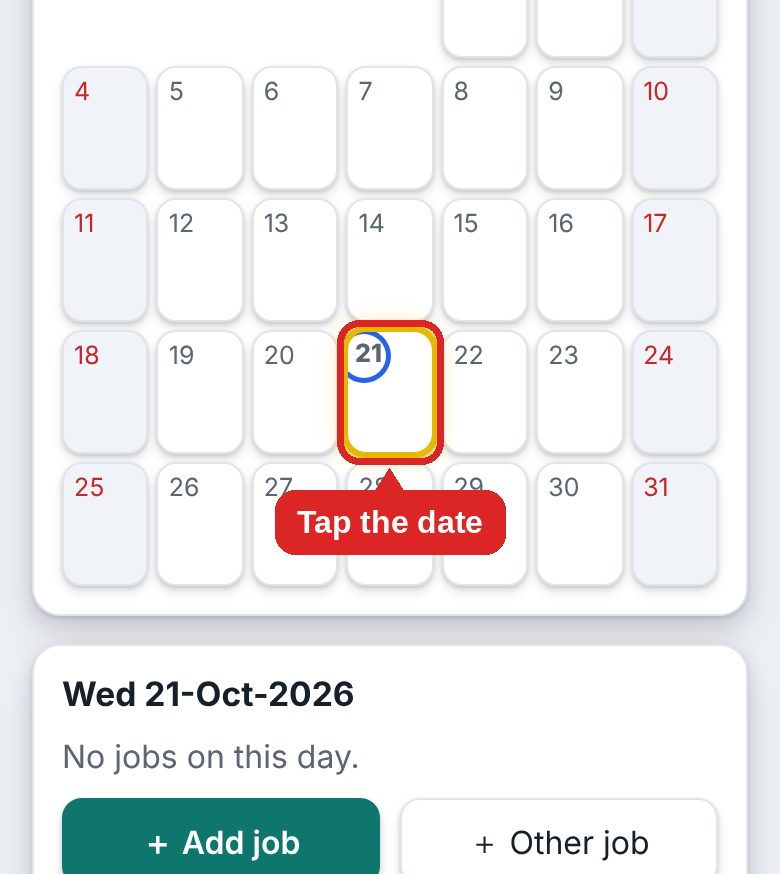
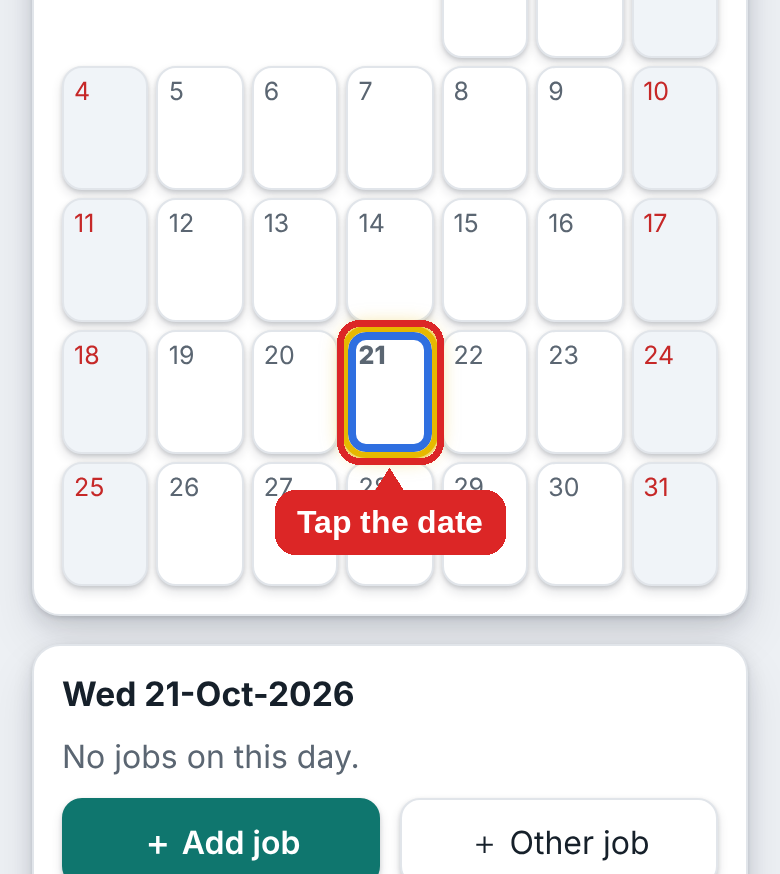
Pop-ups that need nothing from the page dim it again (the day sheet when only viewing a day does not); today is a blue highlighter around the whole tile; guide updated
Claude-Session: https://claude.ai/code/session_015B217MJCLoYGM2HCZFLF5v

Changed region(s): [[0.4308, 0.3707, 0.5538, 0.5252]]

diff --git a/src/styles.css b/src/styles.css
@@ -10,7 +10,7 @@
   /* The yellow highlighter around the tapped date. */
   --hl: #e6b800;
   /* The circle around today's date number. */
-  --today-hl: #2563eb;
+  --today-hl: #2f6fe0;
   --accent: #0f766e;
   --accent-text: #ffffff;
   --weekend: #f0f4f8;
@@ -227,7 +227,8 @@ button.link { min-height: 36px; border: 0; background: transparent; color: var(-
 .cal-cell.tone9.worked { background: color-mix(in srgb, #ea580c 22%, var(--card)); }
 .cal-cell.tone10.worked { background: color-mix(in srgb, #475569 22%, var(--card)); }
 .cal-cell.tone11.worked { background: color-mix(in srgb, #16a34a 22%, var(--card)); }
-.cal-cell.today .n { font-weight: 800; display: inline-block; min-width: 22px; line-height: 22px; text-align: center; margin: -3px 0 0 -4px; border-radius: 999px; box-shadow: 0 0 0 2.5px var(--today-hl); }
+.cal-cell.today { box-shadow: inset 0 0 0 3px var(--today-hl), 0 0 9px 1px color-mix(in srgb, var(--today-hl) 45%, transparent); }
+.cal-cell.today .n { font-weight: 800; }
 
 button, input, select {
   font: inherit; color: inherit;
@@ -309,7 +310,7 @@ input[type="checkbox"] { width: 20px; height: 20px; accent-color: var(--accent);
 .tabs button span { font-size: 1.3rem; }
 .tabs button.active { color: var(--accent); font-weight: 700; }
 
-.sheet-backdrop { position: fixed; inset: 0; z-index: 20; background: transparent; display: flex; align-items: flex-end; justify-content: center; }
+.sheet-backdrop { position: fixed; inset: 0; z-index: 20; background: rgba(8, 14, 22, 0.42); display: flex; align-items: flex-end; justify-content: center; }
 .sheet {
   width: 100%; max-width: 560px; max-height: 92%; overflow: auto;
   background: var(--bg); border-radius: 18px 18px 0 0; padding: 0 16px calc(16px + env(safe-area-inset-bottom));
@@ -451,7 +452,7 @@ button.pill { min-height: 32px; padding: 0 12px; border-radius: 999px; font-size
   margin: 12px -16px calc(-16px - env(safe-area-inset-bottom)); padding: 12px 16px calc(12px + env(safe-area-inset-bottom));
   background: var(--bg); border-top: 1px solid var(--edge);
 }
-.confirm-backdrop { position: fixed; inset: 0; z-index: 50; display: flex; align-items: center; justify-content: center; padding: 24px; background: transparent; }
+.confirm-backdrop { position: fixed; inset: 0; z-index: 50; display: flex; align-items: center; justify-content: center; padding: 24px; background: rgba(8, 14, 22, 0.5); }
 .confirm { width: 100%; max-width: 360px; padding: 18px; border-radius: 16px; background: var(--card); border: 1px solid var(--edge); box-shadow: 0 10px 30px rgba(0, 0, 0, 0.3); }
 .confirm h2 { margin-bottom: 6px; }
 .confirm .row { display: grid; grid-template-columns: 1.4fr 1fr; gap: 10px; margin-top: 14px; }
@@ -680,6 +681,7 @@ table.bands .row-no { width: 34px; text-align: center; color: var(--muted); font
 
 /* A tapped day: clearly highlighted while it is selected or its sheet is open, and pressed feedback while the finger is down */
 .cal-cell.selected { outline: 3px solid var(--hl); outline-offset: -1px; box-shadow: 0 0 0 3px color-mix(in srgb, var(--hl) 45%, transparent), 0 0 10px 2px color-mix(in srgb, var(--hl) 55%, transparent); z-index: 1; }
+.cal-cell.today.selected { box-shadow: inset 0 0 0 4px var(--today-hl), 0 0 0 3px color-mix(in srgb, var(--hl) 45%, transparent), 0 0 10px 2px color-mix(in srgb, var(--hl) 55%, transparent); }
 .cal-cell.selected .n { font-weight: 800; }
 .cal-cell:active { transform: scale(0.95); filter: brightness(1.12); }
 
@@ -985,3 +987,12 @@ button.close-site { justify-content: center; text-align: center; color: var(--ac
 .sheet-backdrop.modeless { pointer-events: none; }
 .sheet-backdrop.modeless .sheet { pointer-events: auto; }
 .day-sheet-open main { padding-bottom: 46vh; }
+
+/* The page is dimmed behind every pop-up that needs nothing from the page. The day sheet when only viewing a day does not dim it. */
+.sheet-backdrop.modeless { background: transparent; }
+@media (prefers-color-scheme: dark) {
+  :root:not([data-theme="light"]) .sheet-backdrop:not(.modeless) { background: rgba(0, 0, 0, 0.6); }
+  :root:not([data-theme="light"]) .confirm-backdrop { background: rgba(0, 0, 0, 0.66); }
+}
+:root[data-theme="dark"] .sheet-backdrop:not(.modeless) { background: rgba(0, 0, 0, 0.6); }
+:root[data-theme="dark"] .confirm-backdrop { background: rgba(0, 0, 0, 0.66); }

diff --git a/src/screens/DayEditor.tsx b/src/screens/DayEditor.tsx
@@ -152,7 +152,7 @@ export function DayEditor({ date, add, focus, onClose }: { date: string; add?: "
 
   return (
     <>
-      <BottomSheet modeless label={`Entries for ${dmy(date)}`} onRequestClose={requestClose} onPullDismiss={leave}>
+      <BottomSheet modeless={mode === "overview"} label={`Entries for ${dmy(date)}`} onRequestClose={requestClose} onPullDismiss={leave}>
         <header className="bar">
           <h2>{dayDMY(date)}</h2>
           {holidayName && <p className="hol-name">{holidayName}</p>}

diff --git a/guide/build_guide.py b/guide/build_guide.py
@@ -164,7 +164,7 @@ s.append(steps([
  ("At the top of the job is the tick <b>Put other jobs on the time sheet</b>. It covers <b>all</b> other jobs, whatever they are called. Leave it ticked and every other job goes on the time sheet. The same switch is in Settings, Timesheet.", None)]))
 s.append(Paragraph("C. Change or delete a day", h2))
 s.append(steps([
- ("Tap the date on the Month tab or on Home. A sheet opens with the day's jobs. The page behind it is not dimmed: tap another date and the sheet switches to that date (the tapped date has a yellow ring, and today has a blue circle around its number). When a day has more than one job, its tile shows the job that starts first, in that site's colour, with one small dot for each job. Tapping the page never closes the sheet: close it with the <b>X</b>, by sliding it down, or with the phone's Back button. Each job has <b>Edit</b> and <b>Delete</b>. Edit opens the same form: change it and tap <b>Save</b>. If you close the form with unsaved changes, the app asks first.", A("e-saved"), 50)]))
+ ("Tap the date on the Month tab or on Home. A sheet opens with the day's jobs. While you only look at a day, the page behind is not dimmed: tap another date and the sheet switches to that date (the tapped date has a yellow ring, and today has a blue one). When a day has more than one job, its tile shows the job that starts first, in that site's colour, with one small dot for each job. When you edit a day or a box asks a question, the page is dimmed. Tapping the page never closes a sheet: close it with the <b>X</b>, by sliding it down, or with the phone's Back button. Each job has <b>Edit</b> and <b>Delete</b>. Edit opens the same form: change it and tap <b>Save</b>. If you close the form with unsaved changes, the app asks first.", A("e-saved"), 50)]))
 s.append(Paragraph("D. See the month and send the time sheet", h2))
 s.append(steps([
  ("<b>Home</b> shows the month so far: gross, net, PAYE, days and paid hours, with each payslip group underneath (days, paid hours and its tax: PAYE, NIS and the health surcharge). This is shown for every month with pay, even with only one group. Every job that goes on the time sheet (the sites ticked for it, and other jobs) is counted on its own <b>Time sheet</b> line: its days, the hours of jobs paid by the hour (such as Client medic), and a small note with the pay counted there. <b>Fixed rate and other jobs add days and pay but no hours</b>, and the note says so. The pay and tax still belong to the group they came from, so PAYE, NIS and the surcharge are worked out from everything in that group. A day is counted once, so the lines add up to the Days and Paid hours at the top. Swipe the calendar left or right to change month. The <b>Month</b> tab shows the same month with the calendar (the month name and arrows stay at the top as you scroll, and changing the month keeps your place; each time you come back to the tab it opens on the current month) and, under its summary, two colour tables like the monthly sheet: <b>Gross and days</b> (for each site the gross, the days, and how many were weekdays and weekend or holiday days) and <b>Hours</b> (the hours worked and the paid hours, with overtime counted). A fixed day rate shows no hours. <b>Year</b> and <b>Charts</b> show the whole year.", None),
